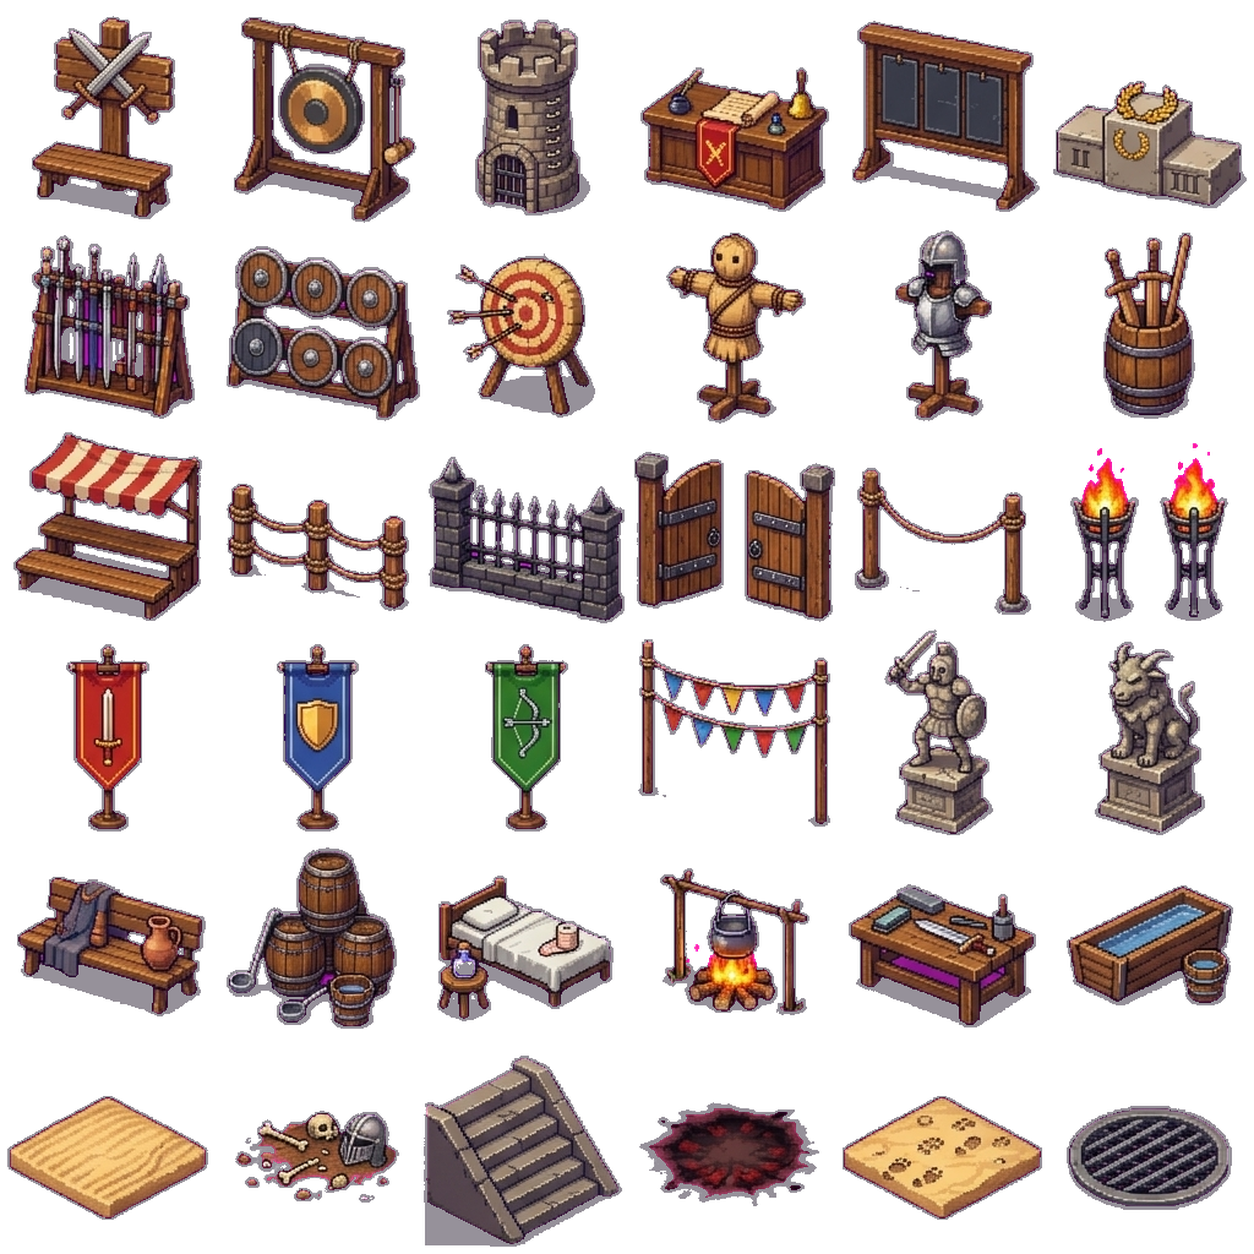
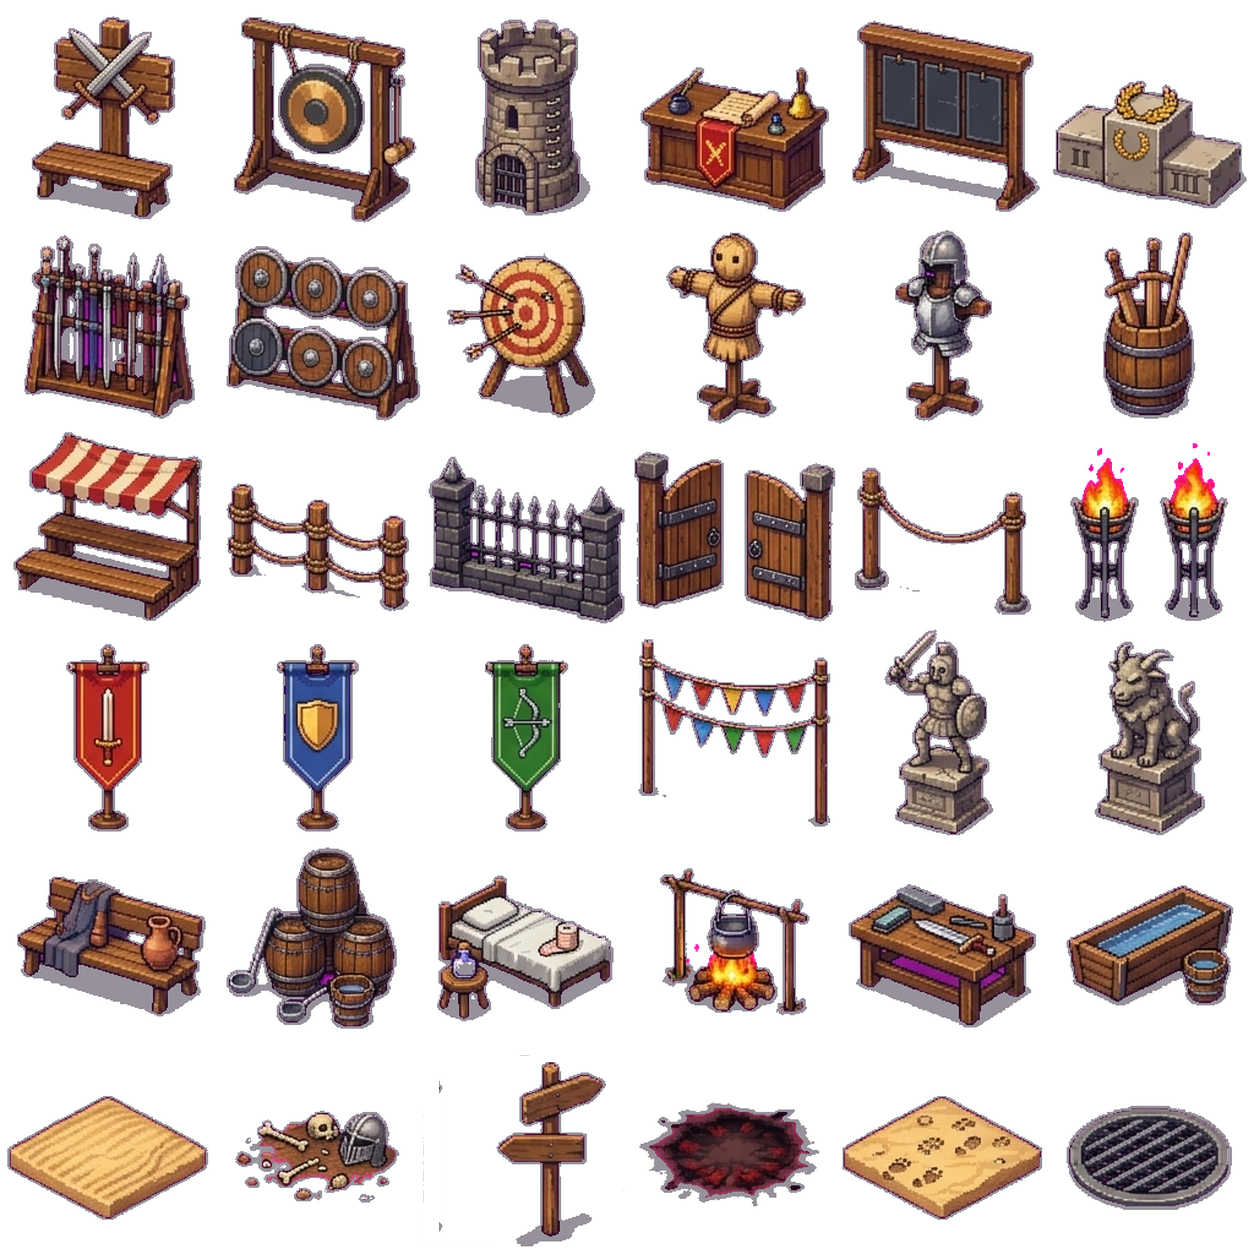
Arena and market tidy-up (no sand patch, bed, weapon table or trough; signpost instead of steps; barrels gone behind the blacksmith); Teleport Stone travel picker in the bag; no top-left Guild button; Fighters pages go Back to where they were opened from; smaller decor sprites
Claude-Session: https://claude.ai/code/session_016XhRvYpPGQwtRhTXwyGieg

Changed region(s): [[0.311, 0.8397, 0.4976, 0.9952]]

diff --git a/src/components/floor/BagMenu.tsx b/src/components/floor/BagMenu.tsx
@@ -1,6 +1,7 @@
 /* eslint-disable @next/next/no-img-element */
 "use client";
 
+import { usePathname } from "next/navigation";
 import { useEffect, useState } from "react";
 import { createClient } from "@/lib/supabase/client";
 import { UiIcon } from "@/components/ui/UiIcon";
@@ -16,6 +17,11 @@ interface Job { slug: string; title: string; done: boolean; objs: Obj[]; coins: 
 
 const cap = (s: string) => s.charAt(0).toUpperCase() + s.slice(1);
 type Tab = "items" | "journal";
+const PLACES: { dest: string; label: string; path: string }[] = [
+  { dest: "guild", label: "Guild hall", path: "/home" }, { dest: "lobby", label: "Main Lobby", path: "/lobby" },
+  { dest: "market", label: "Marketplace", path: "/market" }, { dest: "arena", label: "Arena", path: "/arena" },
+];
+const TELE_MESSAGES: Record<string, string> = { not_yet: "Finish the training field first.", floor_locked: "You haven't unlocked that floor yet.", "none left": "You have no Teleport Stones left." };
 
 function ItemArt({ slug, size }: { slug: string; size: number }) {
   return <img src={itemImage(slug)} alt="" width={size} height={size} draggable={false} />;
@@ -32,6 +38,9 @@ export function BagMenu({ onClose, onUse }: { onClose: () => void; /** On a floo
   const [items, setItems] = useState<Item[] | null>(null);
   const [jobs, setJobs] = useState<Job[] | null>(null);
   const [error, setError] = useState(false);
+  const [tele, setTele] = useState(false);
+  const [unlocked, setUnlocked] = useState(1);
+  const here = usePathname();
 
   useEffect(() => {
     const onKey = (e: KeyboardEvent) => { if (e.key === "Escape") onClose(); };
@@ -50,7 +59,7 @@ export function BagMenu({ onClose, onUse }: { onClose: () => void; /** On a floo
         sb.from("quest_objectives").select("quest_slug, idx, kind, target_kind, target_boss, item_slug, qty"),
         sb.from("player_quests").select("quest_slug, status"),
         sb.from("player_quest_progress").select("quest_slug, idx, progress"),
-        sb.from("profiles").select("floor_reached").single(),
+        sb.from("profiles").select("floor_reached, floor_unlocked").single(),
       ]);
       if (!live) return;
       if (tpl.error || inv.error || q.error || o.error || pq.error || pp.error || !prof.data) return setError(true);
@@ -63,6 +72,7 @@ export function BagMenu({ onClose, onUse }: { onClose: () => void; /** On a floo
       const status = new Map((pq.data ?? []).map((r) => [r.quest_slug as string, r.status as string]));
       const prog = new Map((pp.data ?? []).map((r) => [`${r.quest_slug}:${r.idx}`, r.progress as number]));
       const reached = prof.data.floor_reached as number;
+      setUnlocked((prof.data.floor_unlocked as number) ?? 1);
       setJobs(
         (q.data ?? []).filter((x) => status.has(x.slug)).map((x) => {
           const done = status.get(x.slug) === "done";
@@ -81,7 +91,15 @@ export function BagMenu({ onClose, onUse }: { onClose: () => void; /** On a floo
   }, [rev]);
 
   const total = items?.reduce((s, i) => s + i.qty, 0) ?? 0;
-  const closeAsk = () => { setAsk(null); setNote(null); };
+  const closeAsk = () => { setAsk(null); setNote(null); setTele(false); };
+  // The Teleport Stone: carries you to a place you pick; the server takes the stone and checks the destination.
+  const travel = async (dest: string) => {
+    if (busy) return;
+    setBusy(true); setNote(null);
+    const { data, error: e } = await createClient().rpc("use_teleport_stone", { p_dest: dest });
+    if (e || typeof data !== "string") { setNote(TELE_MESSAGES[Object.keys(TELE_MESSAGES).find((k) => e?.message.includes(k)) ?? ""] ?? "The stone fizzles. Try again."); setBusy(false); return; }
+    window.location.assign(data); // a full load, so a floor's room is left cleanly
+  };
   const confirm = async () => {
     if (!sel || !ask || busy) return;
     setBusy(true); setNote(null);
@@ -180,8 +198,26 @@ export function BagMenu({ onClose, onUse }: { onClose: () => void; /** On a floo
               </div>
             </div>
             {sel.blurb && <p className="text-lg text-paper/90">{sel.blurb}</p>}
-            {!ask ? (
+            {tele ? (
+              <div className="flex flex-col gap-2 border-t-2 border-steel pt-2">
+                <p className="text-xl text-paper">Where to?</p>
+                <div className="grid grid-cols-2 gap-1.5">
+                  {PLACES.map((pl) => (
+                    <button key={pl.dest} type="button" disabled={busy || here === pl.path} onClick={() => travel(pl.dest)} className="bg-panel px-2 py-1 text-lg uppercase text-paper disabled:opacity-40">{pl.label}{here === pl.path && <span className="block text-sm normal-case text-steel">You are here</span>}</button>
+                  ))}
+                </div>
+                <p className="text-base uppercase text-steel">Floors</p>
+                <div className="grid max-h-32 grid-cols-6 gap-1 overflow-y-auto pr-1 short:grid-cols-10">
+                  {Array.from({ length: Math.min(unlocked, 40) }, (_, k) => k + 1).map((n) => (
+                    <button key={n} type="button" disabled={busy || here === `/floor/${n}`} onClick={() => travel(`floor:${n}`)} className="bg-panel py-1 text-lg text-gold disabled:opacity-40">{n}</button>
+                  ))}
+                </div>
+                {note && <p role="alert" className="text-lg text-ember">{note}</p>}
+                <button type="button" disabled={busy} onClick={closeAsk} className="bg-panel px-3 py-1 text-xl uppercase text-paper">Cancel</button>
+              </div>
+            ) : !ask ? (
               <div className="flex flex-wrap gap-2">
+                {sel.slug === "teleport_stone" && <button type="button" onClick={() => setTele(true)} className="flex-1 bg-leaf px-3 py-1 text-xl uppercase text-ink">Teleport</button>}
                 {USABLE.includes(sel.slug) && (
                   <button type="button" disabled={!onUse} onClick={() => setAsk({ kind: "use", n: 1 })} className="flex-1 bg-leaf px-3 py-1 text-xl uppercase text-ink disabled:opacity-40">Use</button>
                 )}

diff --git a/src/components/layout/PageShell.tsx b/src/components/layout/PageShell.tsx
@@ -1,17 +1,20 @@
 import Link from "next/link";
+import { BackButton } from "@/components/layout/BackButton";
 import type { ReactNode } from "react";
 import { Music } from "@/components/Music";
 
 /** Shared frame for the inner pages (the guild song keeps playing through them): a big way back home and a clear title. */
-export function PageShell({ title, children, music = true }: { title: string; children: ReactNode; music?: boolean }) {
+export function PageShell({ title, children, music = true, back = false }: { title: string; children: ReactNode; music?: boolean; /** Go back to where the page was opened from instead of home. */ back?: boolean }) {
   return (
     <main className="mx-auto flex w-full max-w-5xl flex-1 flex-col gap-6 p-4 sm:p-6">
       {music && <Music track="guild" />}
       <div className="flex flex-wrap items-center justify-between gap-3">
         <h1 className="text-3xl uppercase text-gold sm:text-4xl">{title}</h1>
-        <Link href="/home" className="pixel-btn bg-panel px-4 py-2 text-lg uppercase text-paper">
-          Back to home
-        </Link>
+        {back ? <BackButton /> : (
+          <Link href="/home" className="pixel-btn bg-panel px-4 py-2 text-lg uppercase text-paper">
+            Back to home
+          </Link>
+        )}
       </div>
       {children}
     </main>

diff --git a/src/components/town/CarpenterPanel.tsx b/src/components/town/CarpenterPanel.tsx
@@ -108,7 +108,7 @@ export function CarpenterPanel() {
               const total = d.price * n(d.slug), poor = (coins ?? 0) < total;
               return (
                 <li key={d.slug} className="pixel-box flex flex-col gap-1 bg-panel p-2">
-                  <div className="flex h-20 items-center justify-center bg-night"><img src={`/guild/props/${d.slug}.png`} alt="" draggable={false} className="max-h-[4.5rem] max-w-[85%] [image-rendering:pixelated]" /></div>
+                  <div className="flex h-20 items-center justify-center bg-night"><img src={`/guild/props/${d.slug}.png`} alt="" draggable={false} className="max-h-14 max-w-[70%] [image-rendering:pixelated]" /></div>
                   <p className="truncate leading-tight">{d.name}</p>
                   <p className="text-sm text-steel">🪙 {d.price} each · you have {owned[d.slug] ?? 0}</p>
                   <div className="mt-auto flex items-center justify-between gap-1">

diff --git a/src/components/floor/FloorScreen.tsx b/src/components/floor/FloorScreen.tsx
@@ -1319,7 +1319,6 @@ function FloorMap({ floor, seed, fighters, tutorialStep, players, floorUnlocked,
     <div className="relative flex h-dvh w-full flex-col bg-ink">
       {state === "play" && <Music track={floorTrack(floor.n, isBossFloor(floor.n))} />}
       <div className="z-[9500] flex items-center gap-3 bg-night/90 px-3 py-2 text-paper">
-        {!isTraining(floor.n) && <Link href="/home" className="pixel-box bg-panel px-3 py-1 text-lg uppercase">← Guild</Link>}
         <div className="min-w-0 flex-1 leading-tight">
           <p className="truncate text-lg uppercase text-gold">{isTraining(floor.n) ? "Training Ground" : <>Floor {floor.n}{isBossFloor(floor.n) && " · Boss"}</>}</p>
           <p className="truncate text-sm text-steel">{!isTraining(floor.n) && floor.theme.name}</p>

diff --git a/src/components/town/TownMap.tsx b/src/components/town/TownMap.tsx
@@ -286,7 +286,6 @@ export function TownMap({ id, fighters, tour = false }: { id: TownId; fighters: 
       <BagButton />
       <Music track={id === "market" ? "market" : "lobby"} />
       <div className="z-[9500] flex items-center gap-3 bg-night/90 px-3 py-2 text-paper short:gap-2 short:py-1">
-        <Link href="/home" className="pixel-box bg-panel px-3 py-1 text-lg uppercase">← Guild</Link>
         <div className="min-w-0 flex-1 leading-tight">
           <p className="truncate text-lg uppercase text-gold">{town.title}</p>
           <p className="truncate text-sm text-steel">{hint}</p>

diff --git a/src/components/layout/BackButton.tsx b/src/components/layout/BackButton.tsx
@@ -1,0 +1,13 @@
+"use client";
+
+import { useRouter } from "next/navigation";
+
+/** Goes back to wherever the player opened this page from (the guild, a town or a floor); the guild if there is nothing to go back to. */
+export function BackButton({ className = "" }: { className?: string }) {
+  const router = useRouter();
+  return (
+    <button type="button" onClick={() => (window.history.length > 1 ? router.back() : router.push("/home"))} className={`pixel-btn bg-panel px-4 py-2 text-lg uppercase text-paper ${className}`}>
+      Back
+    </button>
+  );
+}

diff --git a/src/lib/guild-ranks.ts b/src/lib/guild-ranks.ts
@@ -14,7 +14,7 @@ export const RANK_NAME = ["", "Humble Lodge", "Craftsman's Hall", "Grand Hall", 
 export const FLOOR = { x0: 0.06, x1: 0.94, y0: 0.4, y1: 0.95 };
 /** How big the rank props are drawn compared to their files, and the old furniture compared to its files. */
 const K = 0.9;
-export const DECOR_K = 1.5;
+export const DECOR_K = 1.25;
 /** A fighter's sprite frame, in tiles. */
 export const HALL_FRAME = 3.9;
 

diff --git a/src/app/(game)/team/[id]/page.tsx b/src/app/(game)/team/[id]/page.tsx
@@ -8,7 +8,7 @@ import { createClient } from "@/lib/supabase/server";
 
 export default function FighterPage({ params }: { params: Promise<{ id: string }> }) {
   return (
-    <PageShell title="Fighter skills">
+    <PageShell title="Fighter skills" back>
       <Suspense fallback={<div className="h-64 animate-pulse bg-panel" aria-busy="true" />}>
         <Content params={params} />
       </Suspense>

diff --git a/src/app/(game)/team/page.tsx b/src/app/(game)/team/page.tsx
@@ -11,7 +11,7 @@ import { ClassActions } from "@/components/guild/ClassActions";
 
 export default function TeamPage() {
   return (
-    <PageShell title="My Fighters">
+    <PageShell title="My Fighters" back>
       <Suspense fallback={<div className="h-64 animate-pulse bg-panel" aria-busy="true" />}>
         <Fighters />
       </Suspense>
